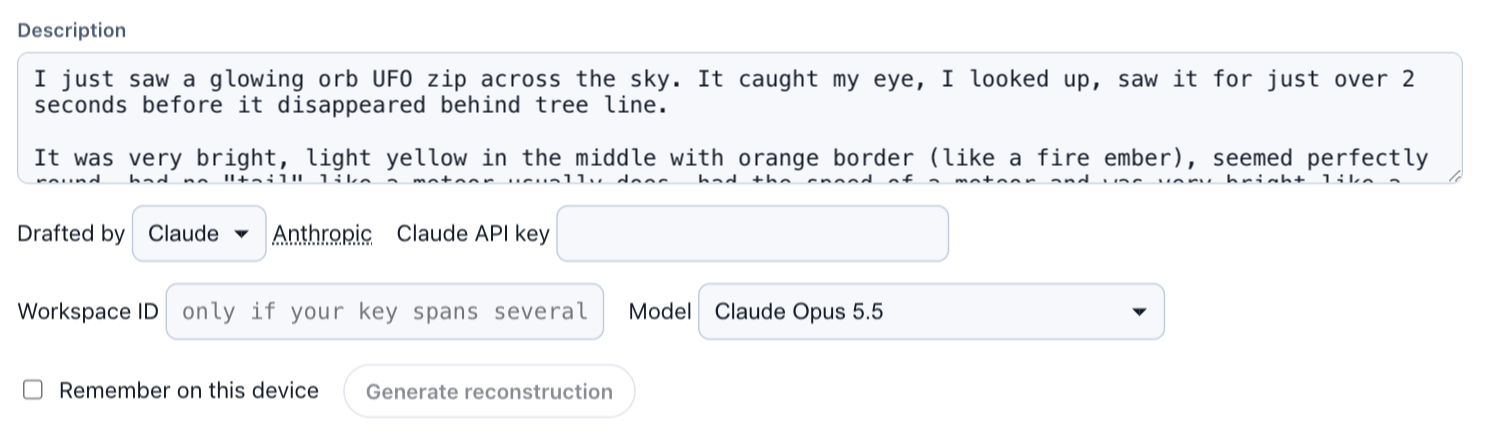
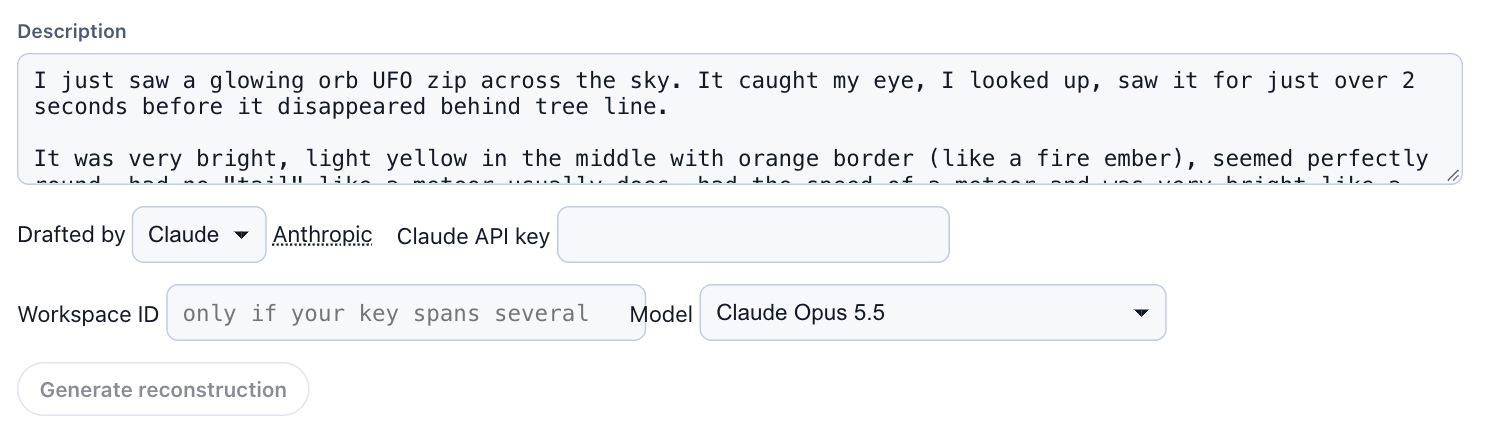
UFO@home articles: what to bring up to date on Medium after 0.177; article 5's drafting panel shot retaken

diff --git a/blog/ufoathome/medium-updates-2026-11-14.md b/blog/ufoathome/medium-updates-2026-11-14.md
@@ -1,0 +1,182 @@
+# Mises à jour des articles UFO@home sur Medium (2026-11-14)
+
+Comparaison des cinq articles en ligne (re-synchronisés le 2026-11-14) avec UfoAtHome 0.177.2 (publié et déployé). Chaque point indique le passage
+actuel, ce qui a changé dans le logiciel (avec le commit), et un texte proposé, en anglais, à coller sur Medium.
+
+## Article 2, What a UFO reconstruction states, and on what
+
+### Les fondements sont six, plus quatre (7d3639d7)
+
+Les deux ajouts viennent de la relecture d'A. Cousyn (GEIPAN) : *established* et *fitted*. Les bornes de la liste changent.
+
+Passage actuel : « **Any value of a recording can carry its basis**, among four: » puis la liste measured, stated, derived, assumed.
+
+Proposé :
+
+> This may be the most important part of the model. **Any value of a recording can carry its basis**, among six, from the strongest:
+>
+> - **established**: settled away from the account and from the reconstruction: a document, a register, a survey, a third party's measurement;
+> - **measured**: read off an instrument, by the witness or an investigator (a clock, a compass, an arm's-length gauge, a theodolite on site);
+> - **stated**: the witness said it (the default, so that a plain value means what it always meant);
+> - **derived**: worked out from what the witness said plus something checkable (a road's width, a map, a measured drawing), with the working written down;
+> - **assumed**: chosen so that the reconstruction has a value at all, on nothing the witness said;
+> - **fitted**: moved, within what is known, to see whether a hypothesis can be made to fit.
+>
+> The two ends were asked for by the GEIPAN's reviewer of the tool. What is established is the one thing a reconstruction can fairly be
+> judged against, since it owes nothing to either. What is fitted is a knob: the more of them a reading turns, the easier a likeness is
+> to obtain, and the less that likeness proves. Nothing is ever tested against a fitted value.
+
+Dans la conclusion : « every value can carry its **basis** (measured, stated, derived, assumed) » → « every value can carry its
+**basis** (from established to fitted) ».
+
+### Une valeur nomme ce sur quoi elle repose (40554b61)
+
+Un fondement dit de quelle *nature* est une valeur ; `source` dit *laquelle* : un passage d'interview, un document et sa page, une
+photo de l'enregistrement, l'outil de mesure. À ajouter après le paragraphe sur la fenêtre du fondement (avant « The list of assumed
+values… ») :
+
+> A basis says what kind of thing a value rests on; a **source** says which thing, the one somebody would go and look at: the passage of
+> an interview where the witness said it, a document and its page, the picture of the recording it was measured on, or the tool it was
+> measured with. A guess names none, which is exactly what "assumed" already says.
+
+### Les lectures : meilleur cas, constats, sensibilité (ebda56f7, cdf199fc, 31c2c077, 6e1886ff)
+
+L'article dit que les corps sont testés « the hard way ». Le logiciel va plus loin : une lecture est jouée dans sa configuration la
+plus favorable, cherchée dans ce que le récit permet, elle garde ses constats (tient, échoue, non testé), et la marge de ses valeurs
+libres est mesurée. Proposé, après le paragraphe de la comparaison de McMinnville :
+
+> A reading is never shown at its worst. Its **most favourable configuration** is searched for within what the account allows (the
+> Sun's heights over the days it allows, the side the light comes from) and it is measured there. What it was tested against is kept
+> with it as **findings**, each one holding, failing or untested, so that a reading that fails stays in the case and shows why. And
+> since every value it was free to choose is a way to make it fit, the margin it has on each is measured too: a likeness bought with
+> many free values proves little.
+
+## Article 3, Built to outlast its sources
+
+### Un lecteur de dossier : sept éléments, pas six (9f2676de, 37d4de8f)
+
+`<rr0-case>` lit un dossier comme `<rr0-case-editor>` l'écrit : sa chronologie, ses événements, et celui qu'on lit (une observation dans
+le lecteur, une interview dans le lecteur de dialogue). Il est dans le même fichier que le lecteur d'observation (`rr0-sighting.mjs`).
+La page /play/ le monte quand on lui donne un case.json.
+
+Passage actuel : « There are six of them, three to show and three to edit: » et sa liste.
+
+Proposé :
+
+> There are seven of them, four to show and three to edit:
+>
+> - the **scene** (the phenomenon in the real sky, weather and ground),
+> - the **sighting** (the scene plus who saw it, the metadata and the sharing),
+> - the **case** (a case's chronology, and whichever of its events is being read: an observation in the sighting, an interview in its reader),
+> - the **interview** (a transcript read as a dialogue, whose passages lead to the moments of the observation they tell of),
+> - the **sighting editor**, the **case editor** and the **interview editor**.
+
+### L'exemple des deux lignes : un dossier se lit avec `<rr0-case>`
+
+`<rr0-sighting>` lit encore un case.json, mais c'est l'ancienne façon ; le lecteur de dossier montre en plus son historique et ses deux
+témoins. Vérifié sur ufoathome.org en production depuis une autre page : il affiche « La rencontre de Cussac », l'historique avec les
+observations de François et Anne-Marie Delpeuch, et la scène.
+
+Proposé :
+
+> ```html
+> <script type="module" src="https://ufoathome.org/lib/rr0-sighting.mjs"></script>
+> <rr0-case src="https://ufoathome.org/demo-data/case-cussac.json"></rr0-case>
+> ```
+>
+> Paste them into any HTML page and the case of Cussac appears: its two witnesses, and the plateau with the sphere leaving it. For your
+> own case, `src` is the address of its file; for a single observation, `<rr0-sighting>` plays its recording alone.
+
+Note : le titre du dossier de Cussac est en français seulement (« La rencontre de Cussac »), y compris sur une page anglaise.
+
+### Les modules, chargés par adresse (bf984e6b, 99d6c1a5, 50a48ad1)
+
+L'article dit qu'une deuxième source s'ajoute « without touching the rest » : c'était vrai du code, c'est maintenant ouvert à tous. Un
+module est un manifeste `ufoathome-module.json` à une adresse : des tuiles d'imagerie ou de relief, des modèles 3D, et un script
+facultatif qui peut contribuer à n'importe quel point d'extension (15 : sources, types d'événements du ciel, types de lectures,
+perception du témoin…). Un enregistrement nomme les modules dont il a besoin ; un lecteur en reçoit les données, jamais le script
+d'un module qu'il n'a pas ajouté lui-même. Proposé, à la fin de la section des providers :
+
+> And a source no longer has to be part of UFO@home to be offered. A **module** is a small file at an address, its manifest: tiles of
+> imagery or relief, 3D models, and, if need be, a script that adds a source, a kind of sky event or a kind of reading at any of the
+> tool's extension points. Anybody can add one from the editor, and a recording names those it was made with, so that it is drawn the
+> same wherever it is opened; a reader gets what a manifest states, never a script they did not add themselves. ([How to write
+> one](https://ufoathome.org/docs/modules/).)
+
+Dans la liste des sources : « the air traffic from adsb.lol » → « the air traffic from [adsb.lol](https://adsb.lol/), or from
+Flightradar24 with the reader's own key ».
+
+### Versions : une ancienne version n'est plus convertie (ef336cfe)
+
+Passage actuel : « Each version has its published schema, a file of an older version is converted as it is read, and a file of a
+version newer than the player is refused with a message, rather than played as something it does not say. »
+
+Le lecteur ne lit plus qu'une version du format, et refuse les autres, anciennes comprises. Un fichier partagé dans une version
+ancienne se lit avec le lecteur épinglé à côté de lui ; un script hors du logiciel (`scripts/migrate-recordings.ts`) met à jour un
+fichier ancien. Proposé :
+
+> Each version has its published schema, and the player reads one version only: a file of another, older or newer, is refused with a
+> message saying so, rather than played as something it does not say. A file shared in an older version keeps being played by the
+> player pinned beside it, which is the other reason to pin it.
+
+Dans la conclusion : « **versions**: of the format, read forward and refused when too new » → « **versions**: of the format, each with
+its schema, and of the player, which can be pinned to the format it was shared with ».
+
+## Article 4, What the witness said, and where it shows
+
+### L'interview comme source d'une valeur, maintenant explicite (40554b61, 78e988e9)
+
+La section « The interview as a source of the observation » décrit la justification (*rationale*) qui cite l'appel. Le format a
+désormais un lien direct : la `source` d'une valeur peut être le passage de l'interview (l'événement, le tour de parole). Ajout proposé
+à la fin du premier paragraphe de cette section :
+
+> A value can also point at the passage itself: its **source** names the interview and the turn of speech, so that a reader goes from
+> the heading to the very words in one click, the way a turn of the transcript goes to its moment.
+
+### L'interview lisible depuis le lecteur (cf881309, 9f2676de)
+
+« The same pair exists outside the editor. A page can show an interview with the <rr0-interview> element next to a reconstruction… »
+reste vrai. On peut ajouter que le lecteur de dossier montre les interviews avec les observations :
+
+> The same pair exists outside the editor. The case reader lists a case's interviews beside its observations: a passage followed to
+> its moment opens the observation there, and while a replay runs, the dialogue open beside it shows the passage that tells of where
+> it stands. A page can also show an interview alone, with the `<rr0-interview>` element.
+
+### Retour du témoin sur une reconstitution : figer l'événement (52e68265, deae132f)
+
+Nouveau, et lié aux interviews : quand on interroge le témoin sur une reconstitution, une modification ultérieure de celle-ci rendrait
+sa réponse caduque. L'auteur peut donc **figer** (*seal*) l'événement et le **cloner** pour continuer sur une copie. Paragraphe
+proposé, avant « Who approved it » :
+
+> An interview is also how a witness answers a reconstruction: shown it, they say what is right and what is not. A later edit would
+> then quietly make their answer about something that no longer exists. So the author can **seal** the reconstruction the witness was
+> shown, and carry on with a clone of it: the sealed one takes no edit, says so on its card, and stays what the interview answered.
+
+## Article 5, AI writes the account, never the sky
+
+### La clé n'est plus jamais mémorisée (4ae537e4)
+
+Passage actuel : « The key is kept in the browser only if they tick "Remember on this device", and forgotten as soon as they untick it. »
+
+La case a disparu : un module chargé par adresse s'exécuterait sur le même site et pourrait lire le stockage du navigateur. La clé est
+gardée dans la mémoire de la page jusqu'à son rechargement. Proposé :
+
+> The key is never stored: it is held in the page's memory, and gone when the page is reloaded. A module loaded from an address runs in
+> the same page, and a key kept in the browser's storage would be within its reach.
+
+Légende de la première capture : « The key is the author's own, and stays in their browser » → « The key is the author's own, and is
+never stored ».
+
+La capture `img5/drafting-panel.png` montrait encore la case « Remember on this device » : refaite le 2026-11-14 (sans la case, et le
+champ « Workspace ID » n'y coupe plus son texte indicatif, corrigé dans UfoAtHome). À remplacer sur Medium.
+
+### Un lien vers une page française
+
+« written as a prompt » renvoie à `https://ufoathome.org/docs/create/index_fr.html#2-with-an-ai-assistant-from-the-case-file`, la page
+française, dans un article anglais. Proposé : `https://ufoathome.org/docs/create/#2-with-an-ai-assistant-from-the-case-file`.
+
+## Captures
+
+Les captures datent du 2026-11-07. Depuis, l'éditeur de dossier (une seule ligne de temps, les lectures sous leur observation, les
+cartes en phrases) et la barre du lecteur ont changé. À refaire au moins : `img2/case-editor.png` (éditeur de dossier de Socorro) et
+`img4/*` si la mise en page de l'interview a changé. Article 1 et article 3 (`share.png`, refaite le 2026-11-11) : à jour.
